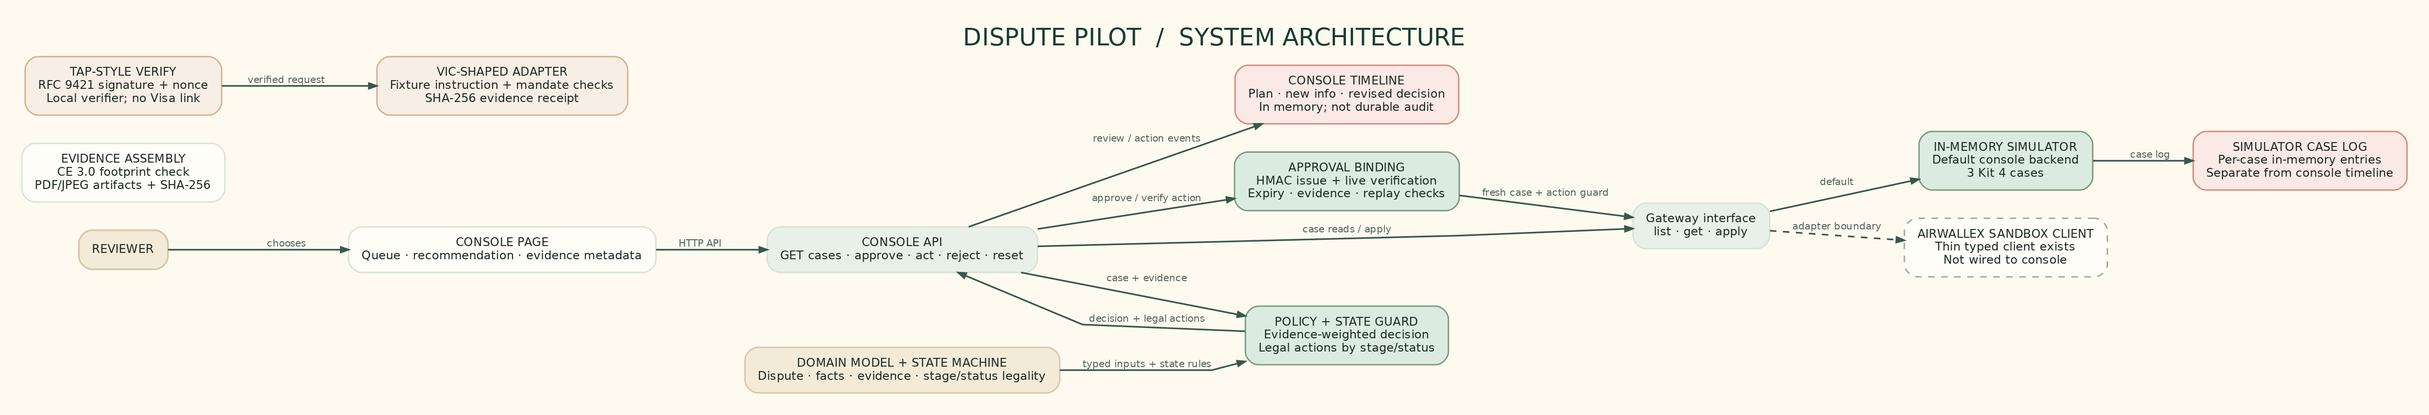
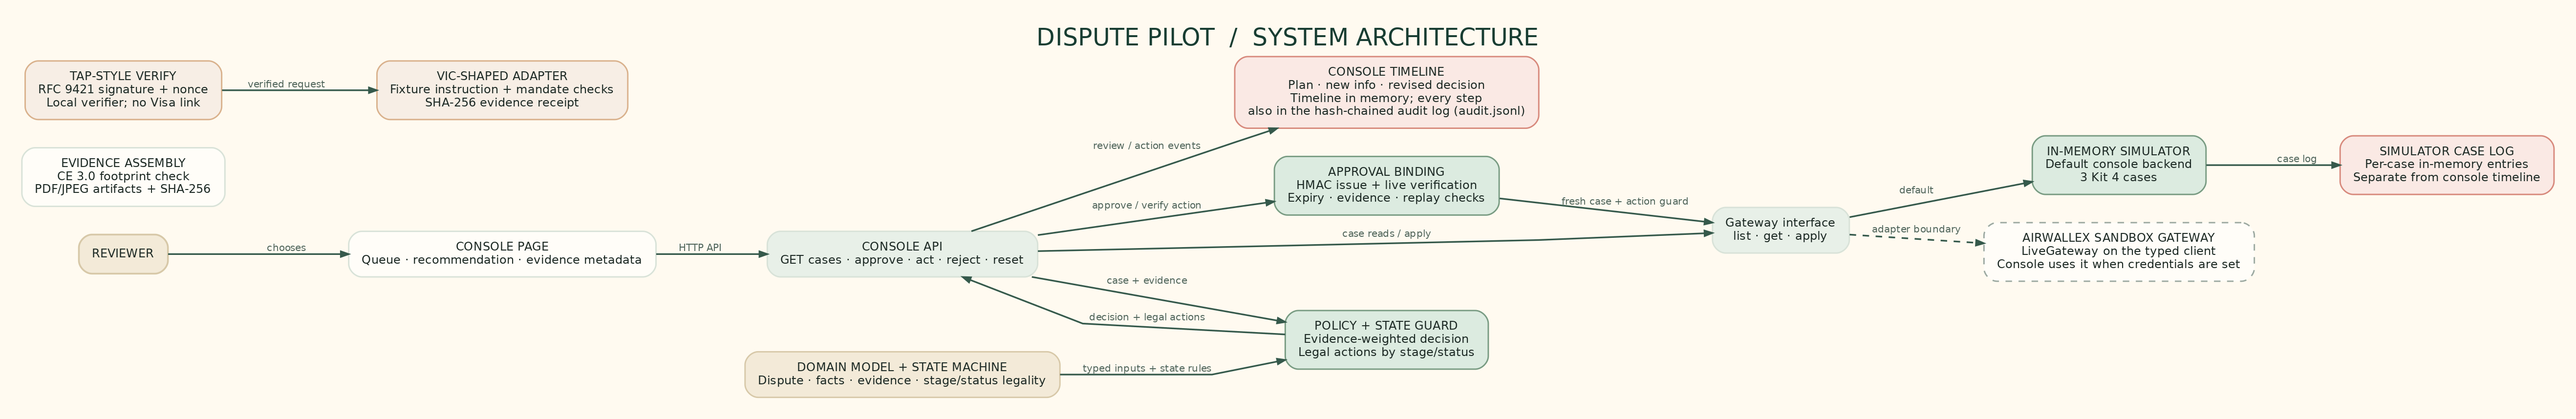
Refresh architecture and Kit 4 diagrams, update docs for the live gateway

diff --git a/README.md b/README.md
@@ -58,7 +58,7 @@ Open http://localhost:3000. Pick a case, accept, challenge or escalate, try the 
 See [docs/](docs/README.md): system architecture, dispute lifecycle, approval binding, and the three Kit 4 cases with the Visa mandate flip. Market research notes are in [docs/market-research.md](docs/market-research.md). Adversarial review findings are in [FINDINGS.md](FINDINGS.md).
 
 ## Status and honest limits
-- The console runs on a built-in simulator. The live sandbox run above drives the Airwallex API through scripts, and `src/gateway/airwallex.ts` is not yet wired into the console.
+- The console runs on a built-in simulator by default. Set `AIRWALLEX_CLIENT_ID` and `AIRWALLEX_API_KEY` and it runs on `LiveGateway` against the Airwallex sandbox instead. Evidence can be added through `POST /api/evidence` (JPG or PDF, checked by file signature) and is uploaded only when a challenge is approved. Escalation is a handoff to a person and makes no Airwallex call.
 - The human approval in the demo is a click in a local console, not an authenticated session. See FINDINGS.md for what is demo-acceptable and what must change before real money.
 - Replay stores are in memory.
 

diff --git a/docs/approval-binding.md b/docs/approval-binding.md
@@ -34,4 +34,4 @@ sequenceDiagram
 
 The HMAC-signed token binds the dispute ID, selected action, amount, currency, reason code, stage, status, sorted evidence SHA-256 list, policy version, approver, expiry and one-use nonce. Before execution, the verifier checks the signature, reuse and expiry, selected action, matching current dispute fields, legality in current state, and the current evidence hashes. It refuses rather than proceeding when a binding no longer matches.
 
-The sequence's “live” read is a fresh `gateway.get()` call. In the current console this reads the in-memory simulator; a production/live Airwallex gateway adapter is not wired in. The verifier's replay set is also process-local. The diagram documents implemented control flow, not a production deployment guarantee.
+The sequence's “live” read is a fresh `gateway.get()` call. In the console this reads the simulator, or the Airwallex sandbox through `LiveGateway` when credentials are set; a production/live Airwallex gateway adapter is not wired in. The verifier's replay set is also process-local. The diagram documents implemented control flow, not a production deployment guarantee.

diff --git a/docs/README.md b/docs/README.md
@@ -11,7 +11,7 @@ Code-grounded workflow and architecture maps for the current repository. The Mer
 
 ## Scope notes
 
-- The console currently uses `makeSim()` and its in-memory gateway. `src/gateway/airwallex.ts` is a thin sandbox client, not an adapter currently wired into the console's `Gateway` interface.
+- The console uses `makeSim()` by default and `LiveGateway` (`src/gateway/live.ts`, on the client in `src/gateway/airwallex.ts`) when Airwallex sandbox credentials are set in the environment. `LiveGateway` is covered by mocked-client tests and has not been run end to end through the console.
 - `src/visa/tap.ts` is TAP-style RFC 9421 verification; `src/visa/vic.ts` uses a fixture-backed, VIC-shaped adapter. Neither is a live Visa integration.
 - The console timeline is in memory; the hash-chained audit log (`src/audit/audit.ts`) is written to `audit.jsonl` by the server and can be verified with `verifyChain`.
 - State-machine detail reflects `src/domain/stateMachine.ts` and `src/sim/simGateway.ts`; after an issuer rejection CHALLENGE is blocked and ESCALATE is legal at CHARGEBACK.

diff --git a/docs/system-architecture.md b/docs/system-architecture.md
@@ -13,7 +13,7 @@ flowchart LR
   AB -->|fresh case read + legality| GI
   DM[Domain types + state machine<br/>Dispute · facts · evidence · stage/status] --> POL
   GI --> SIM[In-memory simulator<br/>default console backend]
-  GI -. future adapter boundary .-> AW[Airwallex sandbox client<br/>typed client exists; not wired]
+  GI --> AW[LiveGateway on the Airwallex sandbox client<br/>used when credentials are set]
   API -->|facts + evidence + live state| POL[Policy + legal-action guard]
   POL -->|recommendation / legal actions| API
   EF[Evidence assembler<br/>CE 3.0 footprint + PDF/JPEG artifacts<br/>standalone helper; not simulator-wired]
